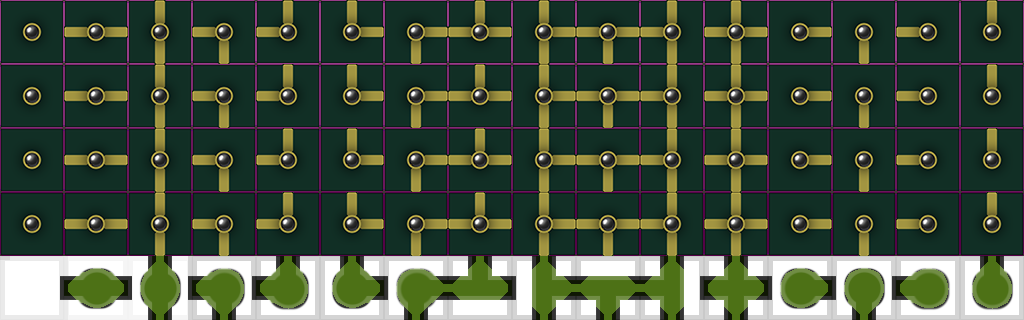
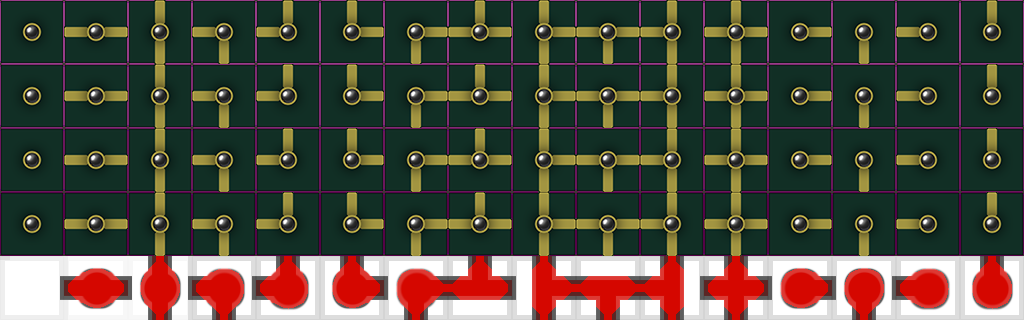
added ripple tile border effect for when you rotate a tile. made worm red

Changed region(s): [[0.0312, 0.7812, 1.0, 1.0]]

diff --git a/src/GameTable.cpp b/src/GameTable.cpp
@@ -2,10 +2,17 @@
 #include <stdlib.h>
 #include "GameTable.h"
 #include "s3e.h"
+#include "Iw2D.h"
+#include "IwGx.h"
 
 int grid_anim_frame[10] =
 {
     1, 1, 2, 2, 3, 3, 2, 2, 1, 1,
+};
+
+int grid_square_dist[16] =
+{
+    0, 1, 4, 9, 16, 25, 36, 49, 64, 81, 100, 121, 144, 169, 196, 225,
 };
 
 int get_grid_anim_frame(int i)
@@ -16,6 +23,15 @@ int get_grid_anim_frame(int i)
         return 0;
 }
 
+int get_grid_anim_frame2(int i)
+{
+    if ((i >= 0) && (i < 5))
+        return grid_anim_frame[i * 2];
+    else
+        return 0;
+}
+
+
 GameTable::GameTable(void)
 {
     new_elements = 0;
@@ -23,6 +39,7 @@ GameTable::GameTable(void)
     can_send_connections = 0;
     fall_finished = 0;
     trigger_anim = -1;
+    trigger_circle = -1;
 }
 
 GameTable::~GameTable(void)
@@ -39,6 +56,7 @@ void GameTable::reset_table(int percent_missing_links)
     can_send_connections = 0;
     fall_finished = 0;
     trigger_anim = -1;
+    trigger_circle = -1;
     still_animating = ANIM_FALL;
     for (i = 0; i < GRID_W; i++)
         for (j = 0; j < GRID_H; j++)
@@ -89,6 +107,9 @@ unsigned char GameTable::get_new_element()
 void GameTable::click_element(int x, int y)
 {
     grid_connectors[x][y] = grid_element_rotate(grid_connectors[x][y]);
+    trigger_circle = 0;
+    tc_x = x;
+    tc_y = y;
 }
 
 // public function which deletes the connected paths, and inserts new elements
@@ -194,7 +215,8 @@ void GameTable::update_anims()
 
 void GameTable::update_color_shifts()
 {
-    int i, j;
+    int i, j, k;
+    CIwSVec2 temp;
     //
     if (fall_finished)
     {
@@ -206,13 +228,35 @@ void GameTable::update_color_shifts()
         for (i = 0; i < GRID_W; i++)
             for (j = 0; j < GRID_H; j++)
             {
-                grid_color_shift[i][j] = get_grid_anim_frame(10 + i + j - trigger_anim);
+                grid_color_shift[i][j] = get_grid_anim_frame(15 + i + j - trigger_anim);
             }
             trigger_anim++;
     }
-    else
+    if (trigger_anim >= 40)
     {
         trigger_anim = -1;
+        for (i = 0; i < GRID_W; i++)
+            for (j = 0; j < GRID_H; j++)
+                grid_color_shift[i][j] = 0;
+    }
+    if ((trigger_circle < 40) && (trigger_circle >= 0))
+    {
+        trigger_anim = -1;
+        for (i = 0; i < GRID_W; i++)
+            for (j = 0; j < GRID_H; j++)
+            {
+                // square of the distance to the center
+                //k = (i - tc_x) * (i - tc_x) + (j - tc_y) * (j - tc_y);
+                temp.x = (i - tc_x) << 12;
+                temp.y = (j - tc_y) << 12;
+                k = (temp.GetLength()) >> 12;
+                grid_color_shift[i][j] = get_grid_anim_frame2(k - trigger_circle + 10);
+            }
+            trigger_circle++;
+    }
+    if (trigger_circle >= 40)
+    {
+        trigger_circle = -1;
         for (i = 0; i < GRID_W; i++)
             for (j = 0; j < GRID_H; j++)
                 grid_color_shift[i][j] = 0;

diff --git a/h/GameTable.h b/h/GameTable.h
@@ -98,7 +98,10 @@ private:
     int missing_links;
     int still_animating;
     int fall_finished;
+
     int trigger_anim;
+    int trigger_circle;
+    int tc_x, tc_y;
 
     int new_elements;
     int missing_link_elements;
